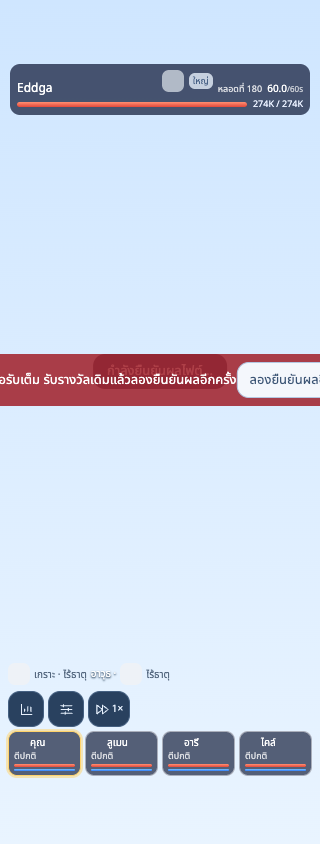
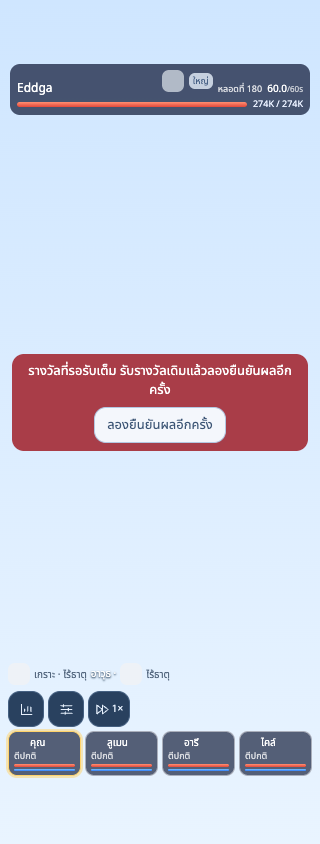
Keep finish recovery controls within mobile screen

Changed region(s): [[0.0, 0.4005, 1.0, 0.5545]]

diff --git a/src/ui/game/field.tsx b/src/ui/game/field.tsx
@@ -154,8 +154,8 @@ export function BossField({ context, app, running, checkpoint, outcome, retreat,
         </div>; })()}
       {cut && <p className="boss-cut" role="status"><Icon name="lightning" /> ขัดสำเร็จ!{cut.by ? ` · ${cut.by}` : ''}</p>}
     </div>
-    {view.terminal && !outcome && running && <p className="field-toast">กำลังยืนยันผลไฟต์…</p>}
-    {error && !outcome && <div className="field-toast danger" role="alert"><span>{error}</span>{view.terminal&&<button className="btn small" disabled={context.busy} onClick={()=>void confirmFinish()}>ลองยืนยันผลอีกครั้ง</button>}</div>}
+    {view.terminal && !outcome && running && !error && <p className="field-toast">กำลังยืนยันผลไฟต์…</p>}
+    {error && !outcome && <div className="field-toast danger field-finish-error" role="alert"><span>{error}</span>{view.terminal&&<button className="btn small" disabled={context.busy} onClick={()=>void confirmFinish()}>ลองยืนยันผลอีกครั้ง</button>}</div>}
     <div className="battle-dock">
     {focused && <div className="focus-status-panel">{focusActor && <div className="focus-elements" aria-label={`ธาตุของ ${focused.name}`}><ElementBadge pack={pack} element={actorElements(focusActor).armor} armor /><span className="weapon-element">อาวุธ · <ElementBadge pack={pack} element={actorElements(focusActor).weapon} /></span></div>}<CombatStatusStrip key={focused.actor_id} actor={focused} actors={view.actors} pack={pack} now={view.game_time_ms} focus /></div>}
     <div className="boss-tools" role="toolbar" aria-label="ควบคุมการต่อสู้">

diff --git a/src/ui/game/game.css b/src/ui/game/game.css
@@ -1058,3 +1058,7 @@ dialog.gacha-reveal-sheet{height:92dvh}.gacha-reveal-sheet .sheet-body{height:10
 
 /* Exact refund preview for the selected character; current Classic palette. */
 .character-reset-refund{list-style:none;padding:0;margin:14px 0;display:grid;grid-template-columns:repeat(2,minmax(0,1fr));gap:8px}.character-reset-refund li{display:grid;grid-template-columns:20px minmax(0,1fr);gap:4px 6px;align-items:center;padding:10px;border-radius:10px;background:var(--surface-soft,#edf4fd);font-size:12px}.character-reset-refund li .res-icon{grid-row:span 2}.character-reset-refund li b{color:var(--brand,#3d70b2);font-size:14px}.character-reset-sheet .level-jump small{display:flex;gap:4px;align-items:center}
+
+/* A refused finish stays readable and actionable within a portrait viewport. */
+.field-toast.field-finish-error { width:calc(100% - 24px); max-width:340px; white-space:normal; display:flex; flex-direction:column; align-items:center; gap:8px; text-align:center; }
+.field-finish-error .btn { flex-shrink:0; max-width:100%; white-space:normal; }

diff --git a/plan/evidence/task-173/README.md b/plan/evidence/task-173/README.md
@@ -4,4 +4,6 @@ Root: queue_limit32 with oneclaimperphase rejects a40box finish as PENDING_REWAR
 
 Recognized2a62 old daily checkpoints recover during normal backed-up migration: compare exact oldhash/data/schema/fullcore-source map; require storedsave/pointer/battle owner+ID+ticketday proof; clone topcontenthash only after compatibility passes, restore sharedengine/replay toterminal, require elapsed>=terminal/4, settle fixedpendingbatch in same backed-upCAS. No clientboxcount/HP/upload or owner credentials. Unknown/incompatible histories never replay. Too-new tickets cancel free. Staticcompat.ts is included in implementation_hash; compat.json freezes the original source contract. Recovery needs servercheckpoint still present; no agent ownerwrite, owner clicksbackup-update then receivesbatch viaDailyPage.
 
-798/798TS,5new focused,38targetedDaily/API and final4capacity/overflow passed; native6 actualReact320390:40label/page/result/onecommand/onequota/failedretry/actionablefinishretry/noautoloop/noHTTPwrites. Root+filtered builds same b036content/6b3001pack/PWA5e2dd494b3e2519b/gzip660000; M0/strict pass. Actual shared high-power fixture clears>32 phases; 40/100 exactsum,31priorclaims+onebatchfits32,full32/overflowpreflight unchanged, old2a signed migration backup+UUIDreplay+claimonequota tested. Screenshotresult40-320 reviewed. No newassets/SQL/env/combatpower/balancebatch. Publicpending.
+798/798TS,5new focused,38targetedDaily/API and final4capacity/overflow passed; native6 actualReact320390:40label/page/result/onecommand/onequota/failedretry/actionablefinishretry/noautoloop/noHTTPwrites. Root+filtered builds same b036content/6b3001pack/PWA5f51c048fd4ec32f/gzip660050; M0/strict pass. Actual shared high-power fixture clears>32 phases; 40/100 exactsum,31priorclaims+onebatchfits32,full32/overflowpreflight unchanged, old2a signed migration backup+UUIDreplay+claimonequota tested. Screenshotresult40-320 reviewed. No newassets/SQL/env/combatpower/balancebatch. Publicpending.
+
+Final UI-only refinement bounds the error/retry panel within320px and suppresses duplicate confirming text;7 focused source/settlement checks and native6/root-filtered repeat pass. No server/content changes after b036.
